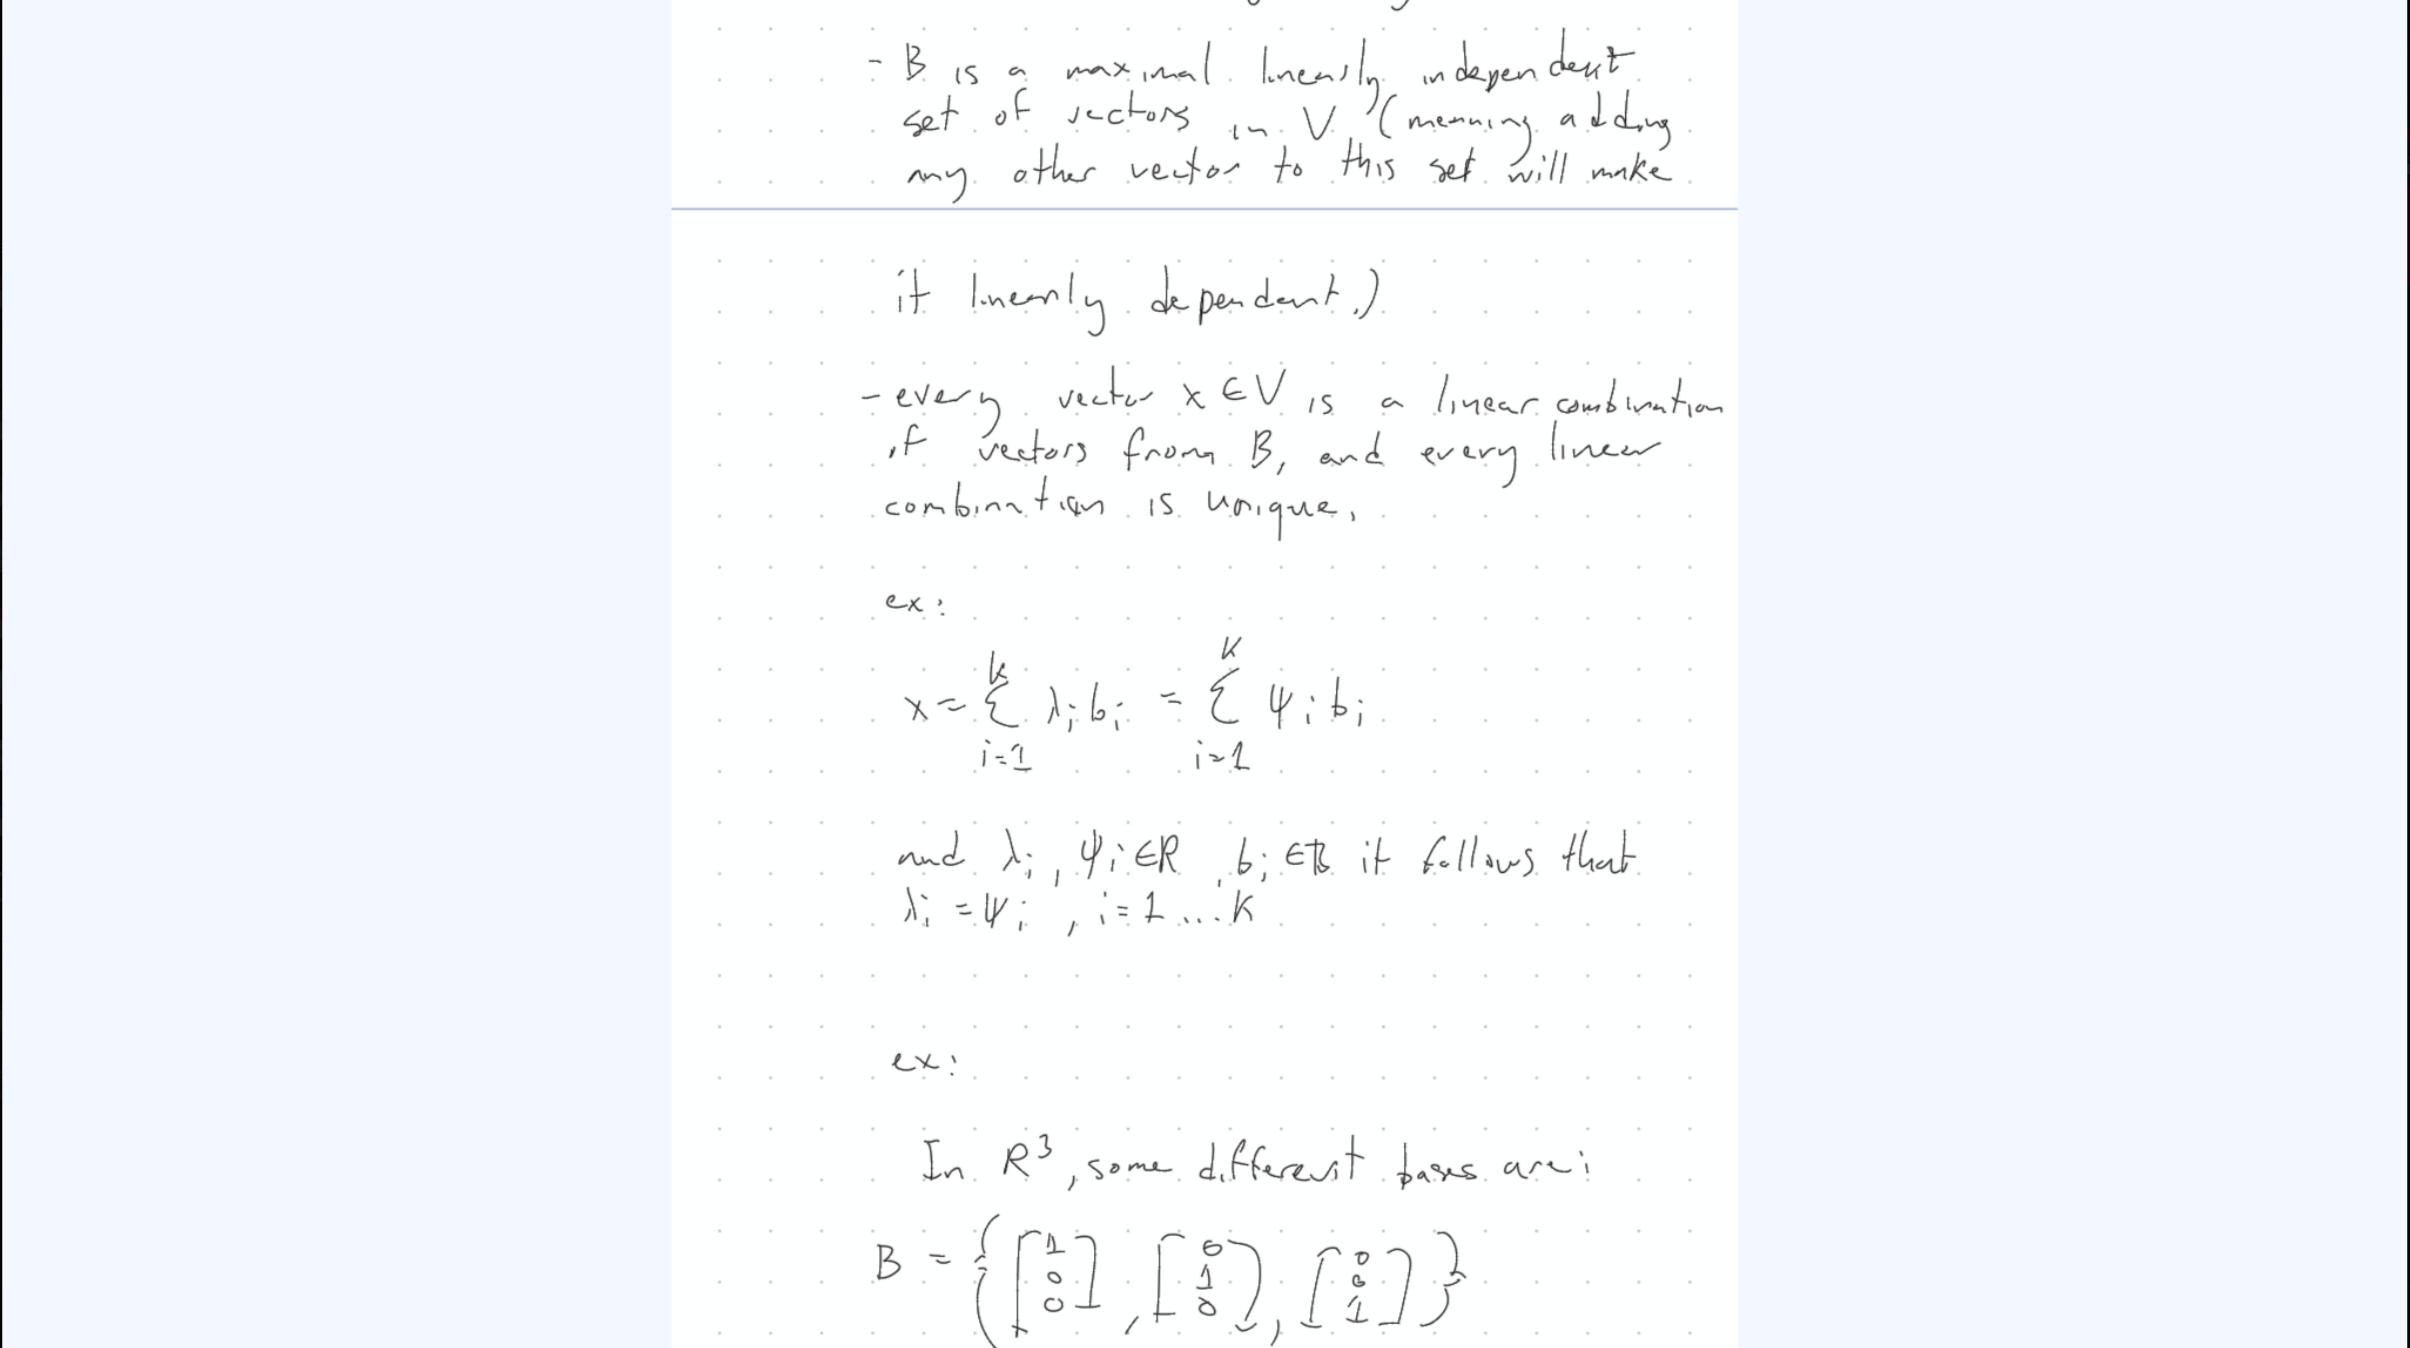
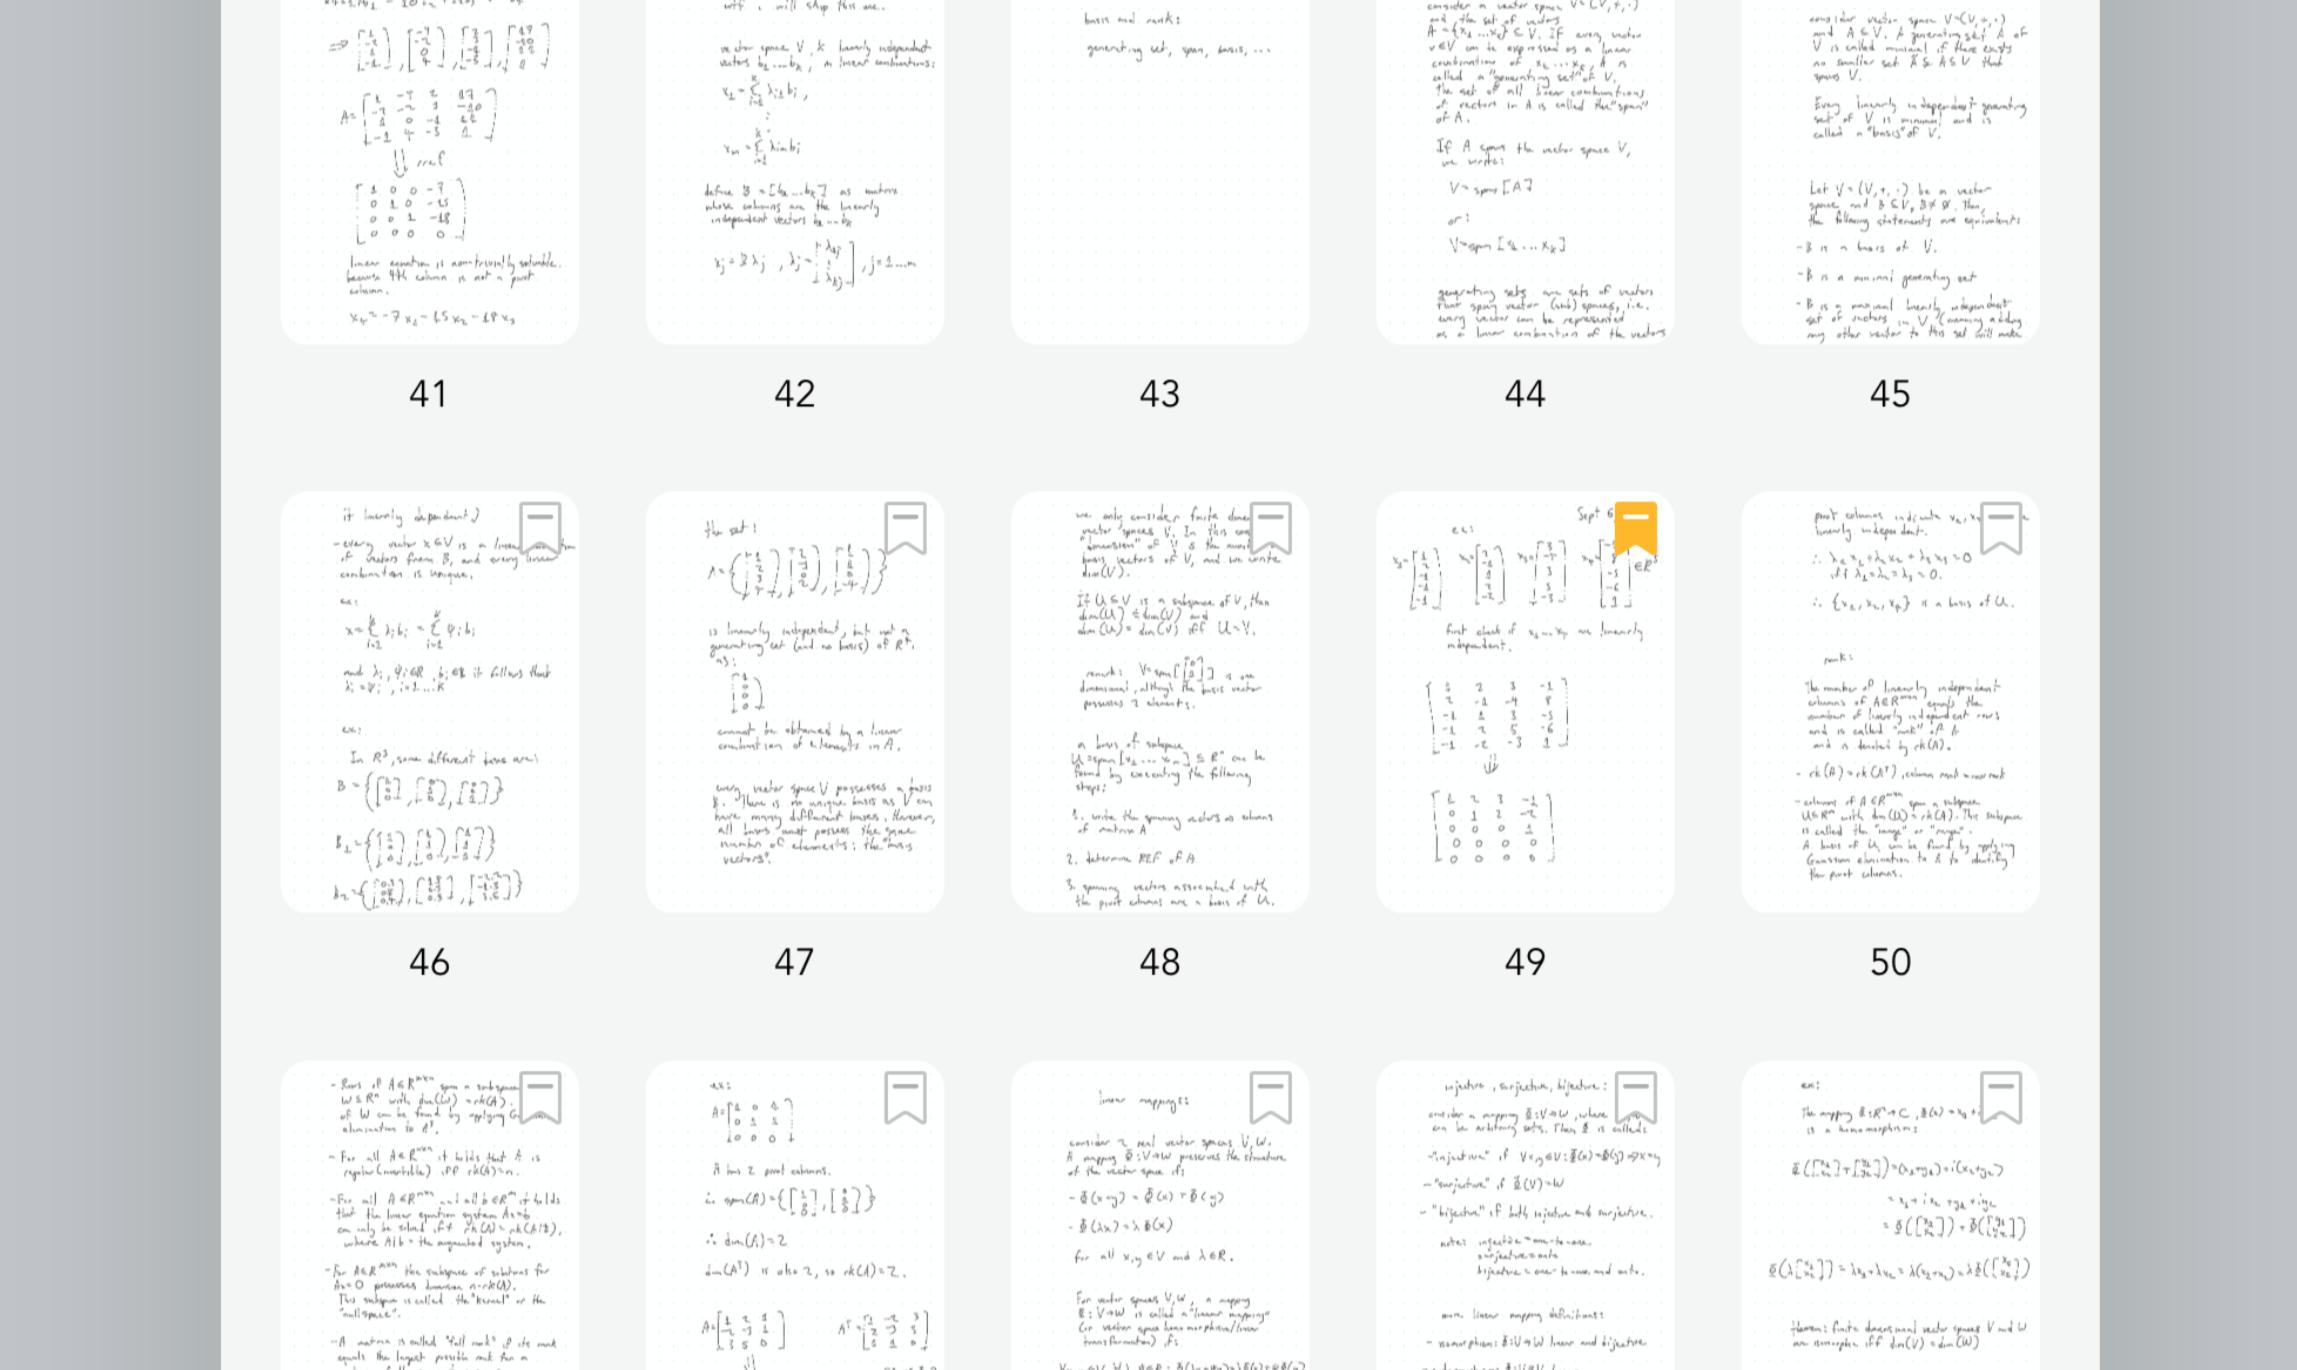
Update 'Getting Good at Machine Learning - Week 1'

diff --git a/.vitepress/theme/custom.css b/.vitepress/theme/custom.css
@@ -194,3 +194,19 @@ h3 {
   border-radius: 2px;
   color: var(--vp-c-text-1);
 }
+.vp-doc figure {
+  margin: 24px 0;
+  text-align: center;
+}
+
+.vp-doc figure img {
+  margin: 0 auto;
+}
+
+.vp-doc figcaption {
+  margin-top: 8px;
+  font-size: 0.875rem;
+  line-height: 1.5;
+  color: var(--vp-c-text-2);
+}
+

diff --git a/posts/2026-09-08-getting-good-at-machine-learning-week-1/index.md b/posts/2026-09-08-getting-good-at-machine-learning-week-1/index.md
@@ -5,15 +5,16 @@ category: ML/AI
 description: "Lots of linear algebra"
 ---
 
+<figure>
+  <img src="./assets/linear-alg-notes.jpg" alt="my notes">
+  <figcaption>Linear algebra notes</figcaption>
+</figure>
+
 Hello there. It has been a week since I suddenly had a impulse urge to start learning about ML/AI. I feel pretty good about my progress currently with this topic. This is honestly way more fun than doing CTF challenges and cybersecurity stuff in my opinion. 
 
 # Current Progress
 
-For the past week, I have just been reading chapter 2 of [Mathematics for Machine Learning](https://mml-book.github.io/), which is pretty much entirely dedicated to linear algebra. As of yesterday, I have finished reading the entirety of chapter 2, which to be honest, has been insanely hard to understand. My approach to reading this chapter has been to take notes on my ipad about the book contents and to do any example problems that are outlined in the chapter by myself without referencing the book in order to get a feel on how to do the problems. With this approach, reading every page has taken me an average of 20-30 minutes to read, and my head also feels like it's been ran over by a truck everytime I try to understand a page. Here's a picture of what my notes look like:
-
-![my notes](./assets/linear-alg-notes.jpg)
-
-However, I have found other resources online that teach the same material outlined in this current chapter, such as:
+For the past week, I have just been reading chapter 2 of [Mathematics for Machine Learning](https://mml-book.github.io/), which is pretty much entirely dedicated to linear algebra. As of yesterday, I have finished reading the entirety of chapter 2, which to be honest, has been insanely hard to understand. My approach to reading this chapter has been to take notes on my ipad about the book contents and to do any example problems that are outlined in the chapter by myself without referencing the book in order to get a feel on how to do the problems. With this approach, reading every page has taken me an average of 20-30 minutes to read, and my head also feels like it's been ran over by a truck everytime I try to understand a page. However, I have found other resources online that teach the same material outlined in this current chapter, such as:
 
 - [This google doc with supplementary materials to read with the book](https://docs.google.com/document/d/1qyBUjkeYUfF4LhJux0dwJItQxDxmoxDRoXPVeQGUAU0/edit?usp=sharing)
 - [Paul's math notes on linear algebra](http://www.cs.cornell.edu/courses/cs485/2006sp/LinAlg_Complete.pdf)
